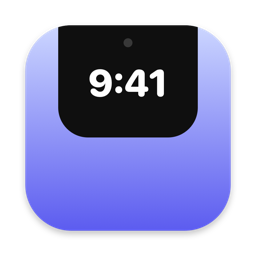
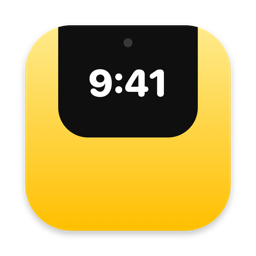
Switch branding to sunflower yellow
Yellow accent with black buttons, a marker-style headline highlight,
warm neutrals, and a lemon-to-amber app icon.

diff --git a/docs/index.html b/docs/index.html
@@ -14,13 +14,14 @@
 <link href="https://fonts.googleapis.com/css2?family=Bricolage+Grotesque:opsz,wght@12..96,700;12..96,800&family=Geist:wght@400;500;600;700&display=swap" rel="stylesheet">
 <style>
   :root {
-    --bg: #f3f4f9;
+    --bg: #faf8f2;
     --card: #ffffff;
-    --ink: #14152b;
-    --muted: #62647a;
-    --line: #e2e4ef;
-    --accent: #5b5cf0;
-    --accent-soft: #e6e6ff;
+    --ink: #141414;
+    --muted: #67635a;
+    --line: #ebe6d6;
+    --accent: #ffc400;
+    --accent-soft: #fff4cc;
+    --accent-ink: #5c4a00;
     --green: #22c55e;
     --radius: 24px;
     --display: "Bricolage Grotesque", system-ui, sans-serif;
@@ -56,7 +57,7 @@
     transition: transform .15s ease, box-shadow .15s ease;
   }
   .pill:hover { transform: translateY(-1px); box-shadow: 0 4px 14px rgba(0,0,0,.06); }
-  .pill.dark { background: var(--accent); color: #fff; border-color: var(--accent); }
+  .pill.dark { background: var(--ink); color: var(--accent); border-color: var(--ink); }
   .pill svg { width: 16px; height: 16px; }
 
   /* ---------- Hero ---------- */
@@ -81,7 +82,7 @@
     transition: transform .15s ease, box-shadow .15s ease;
   }
   .btn:hover { transform: translateY(-2px); }
-  .btn.primary { background: var(--accent); color: #fff; box-shadow: 0 10px 26px rgba(91,92,240,.35); min-width: 240px; }
+  .btn.primary { background: var(--ink); color: var(--accent); box-shadow: 0 10px 24px rgba(0,0,0,.18); min-width: 240px; }
   .btn.secondary { background: var(--card); border: 1px solid var(--line); color: var(--ink); min-width: 240px; }
   .btn svg { width: 18px; height: 18px; }
   .fine { color: #9a9a9a; font-size: 13px; margin-top: 4px; }
@@ -101,9 +102,9 @@
   .desk {
     position: absolute; inset: 0;
     background:
-      radial-gradient(120% 90% at 15% 110%, #8f7cff 0%, transparent 55%),
-      radial-gradient(90% 80% at 95% 0%, #c9d4ff 0%, transparent 60%),
-      linear-gradient(160deg, #aab8ff, #6a5cf0 65%, #2e2a7a);
+      radial-gradient(120% 90% at 15% 110%, #ffd84d 0%, transparent 55%),
+      radial-gradient(90% 80% at 95% 0%, #fff6cf 0%, transparent 60%),
+      linear-gradient(160deg, #ffeaa0, #ffc400 60%, #3b3220);
     transition: transform .55s cubic-bezier(.3,.9,.3,1), border-radius .3s ease;
     border-radius: 0;
   }
@@ -112,23 +113,23 @@
   .menubar {
     height: var(--bar); display: flex; align-items: center; gap: 14px; padding: 0 12px;
     background: rgba(255,255,255,.38); backdrop-filter: blur(10px);
-    font: 600 11px/1 -apple-system, system-ui, sans-serif; color: #15163a;
+    font: 600 11px/1 -apple-system, system-ui, sans-serif; color: #2a2410;
   }
   .menubar .apple { font-size: 13px; }
   .menubar .right { margin-left: auto; display: flex; gap: 12px; align-items: center; }
-  .menubar .dot { width: 12px; height: 8px; border-radius: 2px; background: rgba(20,22,60,.55); }
+  .menubar .dot { width: 12px; height: 8px; border-radius: 2px; background: rgba(42,36,16,.55); }
   .window {
     position: absolute; left: 8%; top: 22%; width: 56%; height: 58%;
-    background: rgba(255,255,255,.86); border-radius: 10px; box-shadow: 0 18px 40px rgba(20,16,80,.3);
+    background: rgba(255,255,255,.86); border-radius: 10px; box-shadow: 0 18px 40px rgba(60,45,0,.28);
     padding: 12px;
   }
   .window .lights { display: flex; gap: 6px; margin-bottom: 14px; }
   .window .lights span { width: 9px; height: 9px; border-radius: 50%; background: #ff5f57; }
   .window .lights span:nth-child(2) { background: #febc2e; }
   .window .lights span:nth-child(3) { background: #28c840; }
-  .window .ln { height: 8px; border-radius: 4px; background: #e4e6f2; margin: 8px 0; }
+  .window .ln { height: 8px; border-radius: 4px; background: #efe9d8; margin: 8px 0; }
   .window .ln.s { width: 60%; }
-  .window2 { left: 52%; top: 40%; width: 40%; height: 46%; background: rgba(18,18,40,.82); }
+  .window2 { left: 52%; top: 40%; width: 40%; height: 46%; background: rgba(24,22,16,.85); }
   .window2 .ln { background: rgba(255,255,255,.14); }
 
   /* Notch, band and drawer */
@@ -176,20 +177,20 @@
   }
   .toggle .sw { width: 28px; height: 16px; border-radius: 999px; background: #d9d9d9; position: relative; transition: background .2s; }
   .toggle .sw::after { content: ""; position: absolute; top: 2px; left: 2px; width: 12px; height: 12px; border-radius: 50%; background: #fff; transition: transform .2s; box-shadow: 0 1px 2px rgba(0,0,0,.2); }
-  .toggle[aria-pressed="true"] .sw { background: var(--accent); }
+  .toggle[aria-pressed="true"] .sw { background: var(--accent); box-shadow: inset 0 0 0 1px #e0ac00; }
   .toggle[aria-pressed="true"] .sw::after { transform: translateX(12px); }
   .hint { text-align: center; color: var(--muted); font-size: 13px; margin-top: 14px; }
 
   /* ---------- Features ---------- */
   section { padding: 72px 0; }
-  .eyebrow { display: inline-block; font: 600 13px/1 "Geist", system-ui, sans-serif; color: var(--accent); background: var(--accent-soft); padding: 7px 12px; border-radius: 999px; }
+  .eyebrow { display: inline-block; font: 600 13px/1 "Geist", system-ui, sans-serif; color: var(--accent-ink); background: var(--accent-soft); padding: 7px 12px; border-radius: 999px; }
   h2 { font: 800 clamp(32px, 4vw, 48px)/1.05 var(--display); letter-spacing: -1.8px; margin: 12px 0 14px; }
   .lead { color: var(--muted); font-size: 18px; max-width: 560px; margin: 0; }
   .center { text-align: center; }
   .center .lead { margin: 0 auto; }
   .grid { display: grid; grid-template-columns: repeat(3, 1fr); gap: 16px; margin-top: 44px; }
   .card {
-    background: var(--card); border-radius: var(--radius); padding: 26px; border: 1px solid #e8e9f2;
+    background: var(--card); border-radius: var(--radius); padding: 26px; border: 1px solid #efeadc;
     display: flex; flex-direction: column; gap: 10px; min-height: 250px;
   }
   .card.wide { grid-column: span 2; }
@@ -198,18 +199,18 @@
   .art { flex: 1; display: grid; place-items: center; min-height: 110px; }
 
   /* small illustrations */
-  .mini-bar { width: 100%; max-width: 300px; height: 22px; border-radius: 8px; background: #e6e8f3; position: relative; overflow: hidden; }
+  .mini-bar { width: 100%; max-width: 300px; height: 22px; border-radius: 8px; background: #f1ecdc; position: relative; overflow: hidden; }
   .mini-bar .n { position: absolute; left: 50%; top: 0; height: 100%; width: 70px; margin-left: -35px; background: #111; border-radius: 0 0 8px 8px; }
   .mini-bar.hide .n { width: 150px; margin-left: -75px; }
   .stack { width: 100%; max-width: 300px; }
   .stack .strip { height: 14px; background: #111; border-radius: 8px 8px 0 0; }
-  .stack .mb { height: 18px; background: #e6e8f3; border-radius: 6px 6px 0 0; display: flex; gap: 6px; align-items: center; padding: 0 8px; }
-  .stack .mb span { width: 18px; height: 5px; border-radius: 3px; background: #b4b8d6; }
-  .stack .win { height: 46px; background: #f7f8fc; border: 1px dashed #d5d8ea; border-top: 0; }
+  .stack .mb { height: 18px; background: #f1ecdc; border-radius: 6px 6px 0 0; display: flex; gap: 6px; align-items: center; padding: 0 8px; }
+  .stack .mb span { width: 18px; height: 5px; border-radius: 3px; background: #d6cca8; }
+  .stack .win { height: 46px; background: #fdfbf5; border: 1px dashed #e8dfc4; border-top: 0; }
   .mini-drawer { background: #111; color: #fff; border-radius: 0 0 18px 18px; padding: 14px 20px; display: flex; gap: 28px; align-items: center; }
   .mini-drawer .t { font: 800 26px/1 var(--display); }
   .mini-drawer .d { font-size: 11px; color: #9b9b9b; }
-  .corners-art { width: 150px; height: 90px; background: #e6e8f3; border-radius: 22px 22px 6px 6px; border-top: 10px solid #111; }
+  .corners-art { width: 150px; height: 90px; background: #f1ecdc; border-radius: 22px 22px 6px 6px; border-top: 10px solid #111; }
   .keycap {
     font: 800 28px/1 var(--display); width: 74px; height: 74px; border-radius: 18px; display: grid; place-items: center;
     background: linear-gradient(#fff, #f2f2f2); border: 1px solid #e3e3e3; box-shadow: 0 6px 0 #dcdcdc, 0 10px 18px rgba(0,0,0,.08);
@@ -217,7 +218,7 @@
   .big-num { font: 800 54px/1 var(--display); letter-spacing: -2px; }
   .big-num small { font-size: 18px; color: var(--muted); letter-spacing: 0; }
   .lock { width: 64px; height: 64px; border-radius: 20px; background: var(--accent-soft); display: grid; place-items: center; }
-  .lock svg { width: 30px; height: 30px; color: var(--accent); }
+  .lock svg { width: 30px; height: 30px; color: var(--accent-ink); }
 
   /* ---------- Open source band ---------- */
   .oss { background: var(--ink); color: #fff; border-radius: 32px; padding: 56px; display: grid; grid-template-columns: 1.2fr 1fr; gap: 40px; align-items: center; }
@@ -226,11 +227,12 @@
   .term { background: #111; border: 1px solid #2a2a2a; border-radius: 18px; padding: 20px; font: 500 14px/1.7 ui-monospace, "SF Mono", Menlo, monospace; color: #d4d4d4; overflow-x: auto; }
   .term .c { color: #6b6b6b; }
   .term .p { color: var(--accent); }
+  mark { background: var(--accent); color: inherit; padding: 0 .12em; border-radius: .12em; box-decoration-break: clone; -webkit-box-decoration-break: clone; }
   .oss .btn.secondary { background: transparent; color: #fff; border-color: #3a3a3a; margin-top: 26px; }
 
   /* ---------- FAQ ---------- */
   .faq { max-width: 760px; margin: 40px auto 0; display: grid; gap: 12px; }
-  details { background: var(--card); border-radius: 18px; border: 1px solid #e8e9f2; padding: 18px 22px; }
+  details { background: var(--card); border-radius: 18px; border: 1px solid #efeadc; padding: 18px 22px; }
   summary { cursor: pointer; font-weight: 700; list-style: none; display: flex; justify-content: space-between; gap: 16px; }
   summary::after { content: "+"; font: 800 20px/1 var(--display); color: var(--muted); }
   details[open] summary::after { content: "–"; }
@@ -294,7 +296,7 @@
       <div class="app-icon">
         <img src="assets/icon.png" alt="Brow app icon" width="112" height="112">
       </div>
-      <h1>Hide the notch.<br>Keep the time.</h1>
+      <h1>Hide the notch.<br><mark>Keep the time.</mark></h1>
       <p class="sub">A tiny menu bar app that blacks out the MacBook notch and tucks a clock right under it.</p>
       <div class="cta">
         <a class="btn primary" href="https://github.com/StephenLovino/Brow/releases/latest/download/Brow.zip">

diff --git a/Packaging/make-icon.swift b/Packaging/make-icon.swift
@@ -23,8 +23,8 @@ let image = NSImage(size: NSSize(width: size, height: size), flipped: true) { _ 
     NSGraphicsContext.current?.saveGraphicsState()
     tilePath.addClip()
     NSGradient(colors: [
-        NSColor(red: 0.80, green: 0.84, blue: 1.00, alpha: 1),
-        NSColor(red: 0.36, green: 0.36, blue: 0.94, alpha: 1),
+        NSColor(red: 1.00, green: 0.92, blue: 0.55, alpha: 1),
+        NSColor(red: 1.00, green: 0.75, blue: 0.00, alpha: 1),
     ])?.draw(in: tile, angle: 90)
 
     // The notch drawer hanging from the top edge of the tile.
